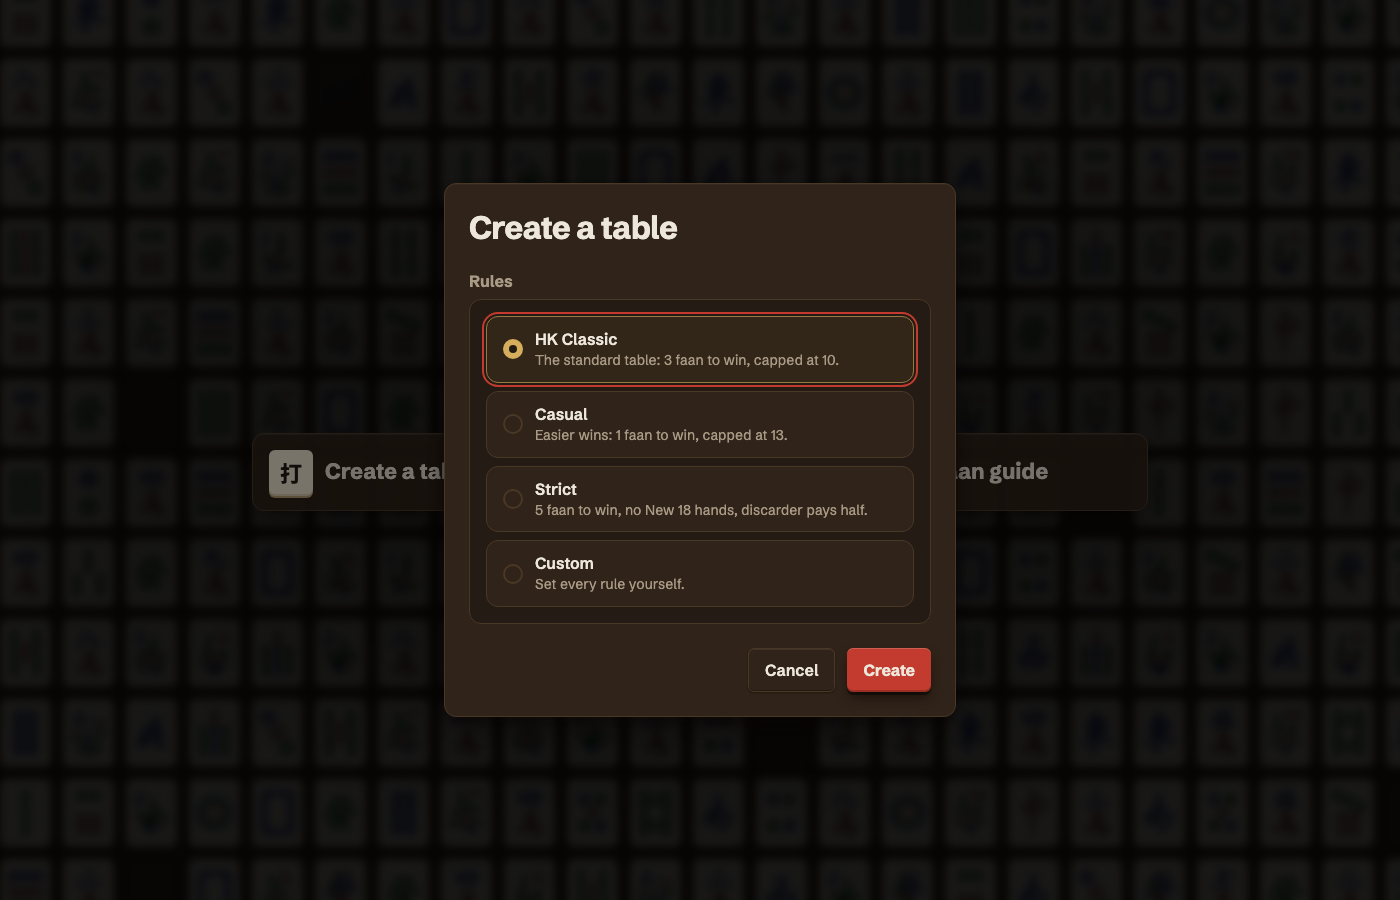
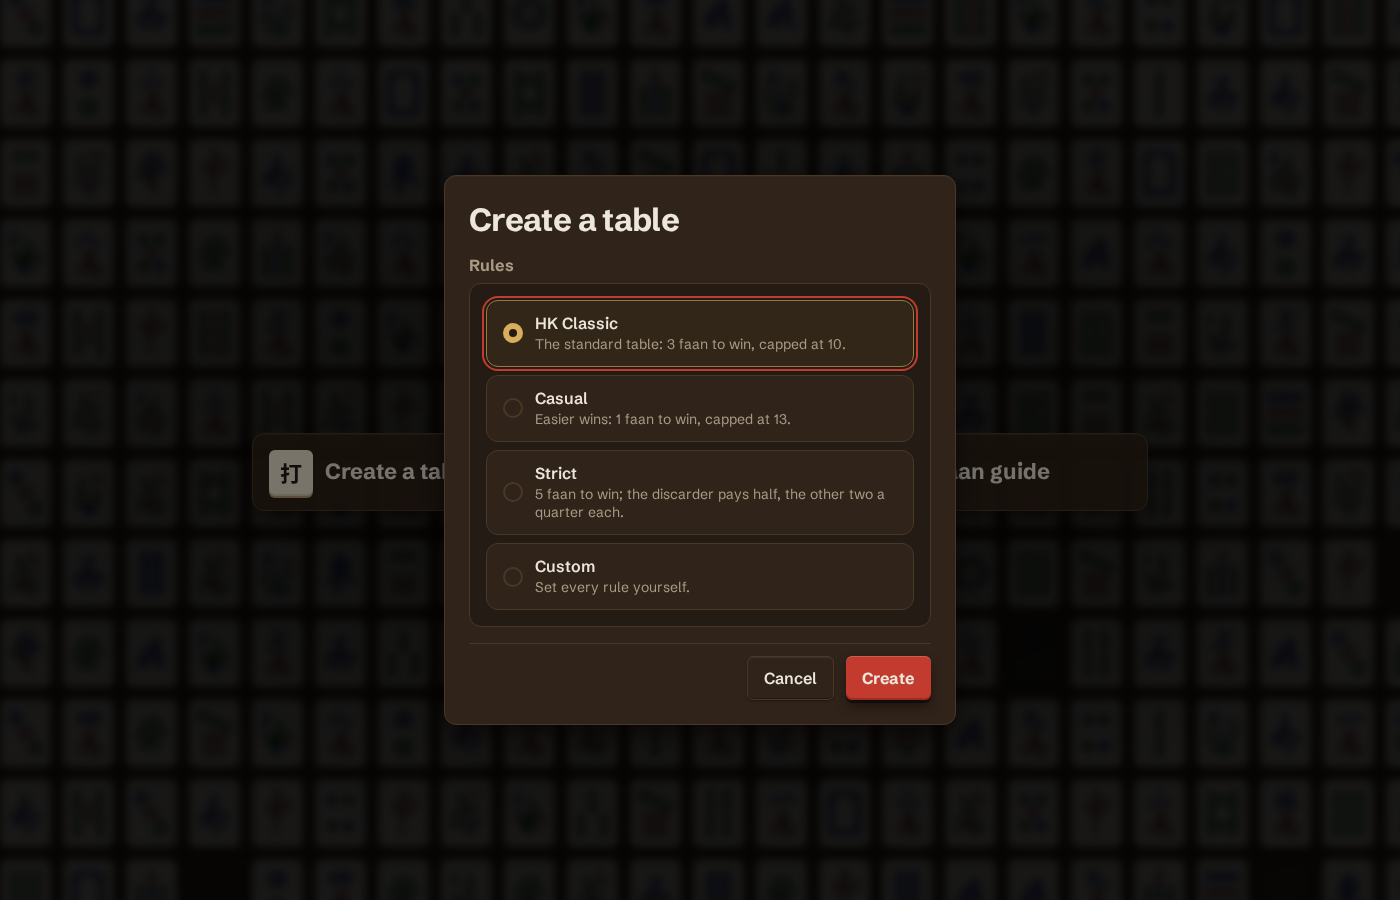
fix(web): describe hk_strict accurately
"no New 18 hands" dated from before the scoring audit made NEW_18 opt-in
everywhere; Classic has the same hand sets, so it read as a Strict-only rule.
The description now states what Strict changes: 5 faan to win, discarder
pays half and the other two a quarter each. rules.md's preset list gains
Strict's discard_payment and Casual's score_table; ml.md's Seven Pairs
example names the preset that actually differs.

Changed region(s): [[0.3071, 0.1867, 0.6757, 0.8089], [0.7064, 0.4978, 0.7371, 0.5289]]

diff --git a/docs/ml.md b/docs/ml.md
@@ -200,7 +200,7 @@ uv run python -m ml.export --ckpt runs/danger/ckpt_best.pt --out danger.npz
 across, previous), reading only entitled `SeatView` fields — never `view.hands`, the `ORACLE`
 tier's omniscient extra ([bots §9](bots.md)). `encode_ruleset` is
 `[min_faan, wall_reserve, hand_sets bitmask, effective faan per PATTERNS entry]`: the correct
-discard for the same hand depends on the ruleset (Seven Pairs under `hk_classic` vs `hk_strict`),
+discard for the same hand depends on the ruleset (Seven Pairs under `hk_casual` vs `hk_classic`/`hk_strict`),
 so a network without it overfits one ruleset or gets contradictory labels across several.
 Timing/connection fields are not encoded.
 

diff --git a/docs/rules.md b/docs/rules.md
@@ -378,7 +378,7 @@ class RuleSet:
 setting them has no effect. The create-table editor hides them (`INERT_RULE_FIELDS`, frontend.md §7).
 
 **Presets** (`mahjong_core.presets.RULESET_PRESETS`): `hk_classic` (the defaults above),
-`hk_casual` (`min_faan=1`, `faan_cap=13`, `NEW_18` on), `hk_strict` (`min_faan=5`). `custom` takes a full
+`hk_casual` (`min_faan=1`, `faan_cap=13`, `score_table=FULL_SPICY`, `NEW_18` on), `hk_strict` (`min_faan=5`, `discard_payment=HALF`). `custom` takes a full
 `RuleSet.from_dict` body. `resolve_ruleset` never hard-rejects: an unknown preset or invalid custom
 body falls back to `hk_classic`.
 
